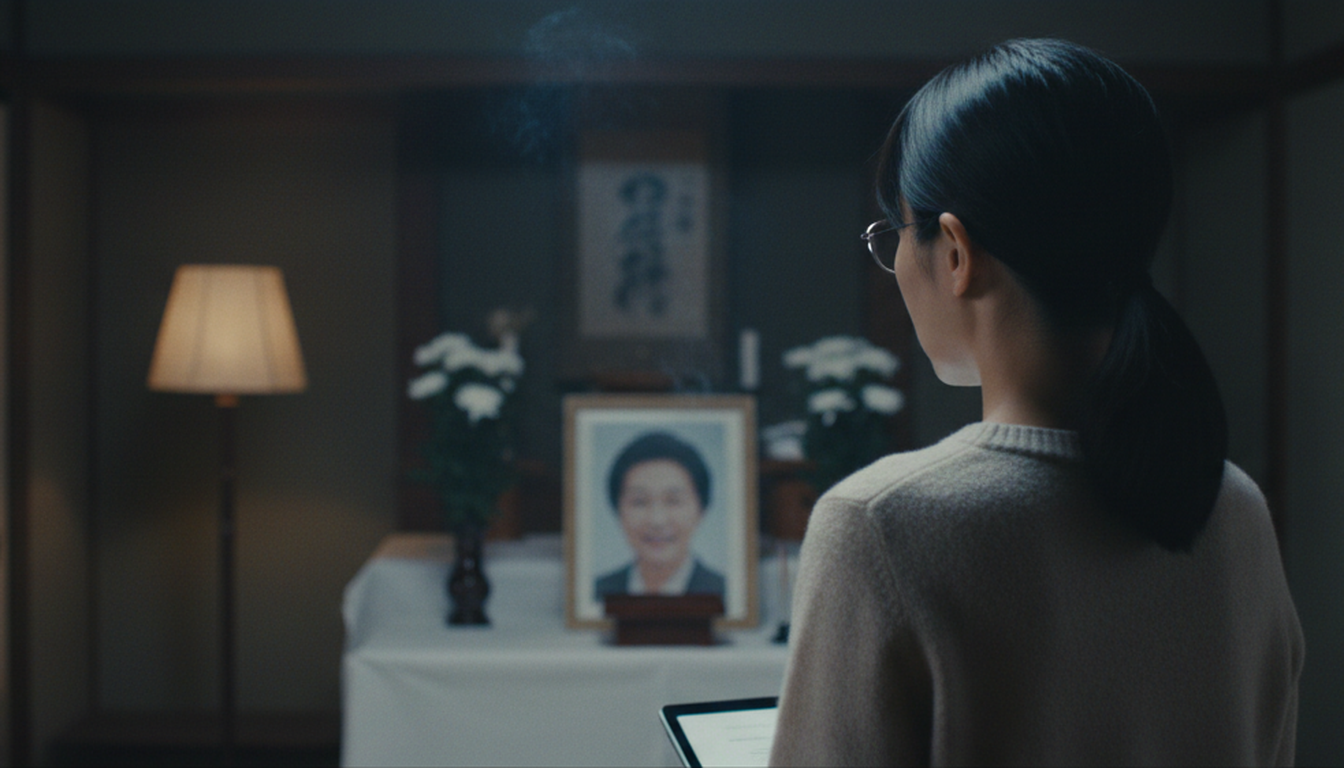
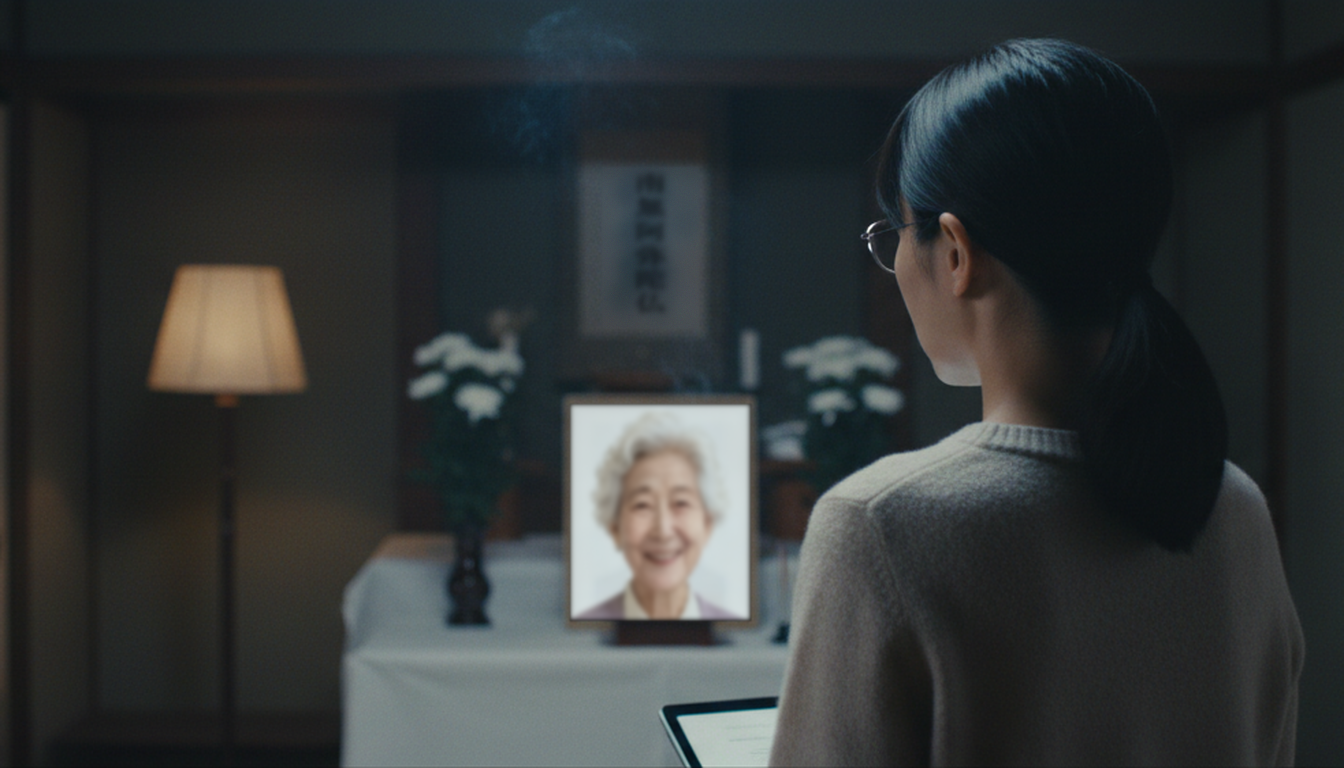
aihaha-ja 2초 전수 검수: S08k 영정 어머니 사진·족자 南無阿弥陀仏, S13f 액자, S10c TV 끔, CCTV 글자 순서
Claude-Session: https://claude.ai/code/session_012dfS4ETyT6kRCQca3NPWtx

Changed region(s): [[0.4062, 0.5, 0.5625, 0.8125], [0.4688, 0.25, 0.5, 0.2812]]

diff --git a/scripts/finalize_aihaha.py b/scripts/finalize_aihaha.py
@@ -51,9 +51,10 @@ VIDSCREEN = {  # 키프레임(1344x768) 화면 네 꼭짓점(TL·TR·BR·BL) —
 VID_OFFSET = {"H0b": 0.0, "S04l": 1.2, "S09e": 2.0}  # 같은 영상의 다른 구간(L02·L11·L26 — 같은 음성 파일 재사용, 제21장 9)
 LAPTOP = ("S06g", [(503.75, 461.7), (720.8, 450.0), (739.2, 588.3), (523.75, 610.8)],
           [(725.8, 478.3), (713.3, 515.8), (692.5, 557.5), (669.6, 595.0), (760, 640), (760, 440)])  # 화면 사각형, 앞 인물(머리·어깨) 보호 다각형
+TVOFF = {"S10c": [(236, 329), (459, 329), (459, 468), (236, 468)]}  # 배경 TV가 흰 무지로 빛남 → 꺼진 화면(어두운 유리 + 옅은 반사), 매 프레임
 PAGEBLUR = {"S07h": (100, 330, 760, 600), "S10h": (880, 450, 1344, 768)}  # 키프레임 좌표, 종이색 픽셀만 흐림
 CCTV = {"S03a", "S06k"}
-POST_CCTV = {"S06k"}  # 펀치 인 뒤에 CCTV 화면 글자를 얹는다(먼저 얹으면 확대로 글자가 잘림)
+POST_CCTV = {"S06k", "S03a"}  # 펀치 인 뒤에 CCTV 화면 글자를 얹는다(먼저 얹으면 확대로 글자가 잘림)
 FAKE = {"H0a", "S05a"}
 S01B_HOLD = 5.0  # S01b 5초 이후 약통이 납작해짐 → 5초 프레임 정지 + 슬로 푸시
 CORNERS = {"S01a": "corner_S01a", "S02a": "corner_S02a", "S04a": "corner_S04a", "S07a": "corner_S07a", "S08a": "corner_S08a", "S12a": "corner_S12a"}
@@ -69,6 +70,7 @@ CREEP = {  # 긴장 정적 구간 카메라(고니감독님 2026-11-05 「카메
     "S03a": (1.10, 0.62, 0.52, False), "S08l": (1.08, 0.5, 0.5, False), "S08n": (1.05, 0.5, 0.42, False),
     "S09p": (1.06, 0.5, 0.42, True), "S10j": (1.08, 0.5, 0.45, True),
 }
+KF_REDO = {"S08k", "S13f"}  # 마무리 단계에서 키프레임을 고친 정지 컷(족자 「南無阿弥陀仏」) — 교체 클립과 같은 푸시인으로 다시 만듦
 STATIC = {"S05c", "S08i", "S08o"}  # 움직이는 컷 3연속 끊기 — 정지 교체 클립(푸시인) 대신 완전 고정(돌리줌 직후 정지 = 충격의 여운)
 FX.update({"S10a": "punch"}); PUNCH_AT["S10a"] = 0.1  # 탁자 내리침 순간 — 펀치 인 3회째(작품당 6회 이하)
 MULTICAM = {"S01i", "S06f", "S06j", "S07c", "S07g", "S09q", "S11d"}  # 같은 크기·각도 연속 쌍의 두 번째 컷 → 1.10배 화각 교체(제19장 17③, 제8장 2)
@@ -388,6 +390,9 @@ def source_frames(sid):
     if sid in STATIC:
         n = int(round(BY[sid]["assembled_s"] * FPS)) + 2
         return [cover(kf_img(sid))] * n
+    if sid in KF_REDO:
+        n = int(round(BY[sid]["assembled_s"] * FPS)) + 2; base = cover(kf_img(sid))
+        return [zoom_frame(base, 1 + 0.05 * i / n) for i in range(n)]
     if sid in VIDSCREEN:
         n = int(round(BY[sid]["assembled_s"] * FPS)) + 2
         base = [cover(f) for f in vid_screen(sid, n)]
@@ -417,6 +422,10 @@ def source_frames(sid):
         fr = laptop(fr)
     if sid in PAGEBLUR:
         fr = page_blur(sid, fr)
+    if sid in TVOFF:
+        sc, ox, oy = kf_map(sid, fr[0]); q = mapq(TVOFF[sid], sc, ox, oy)
+        dark = np.full((90, 160, 3), 14, np.float32)
+        fr = [lcd_put(f, dark, q, keep=140, refl=0.12, blur=1.2) for f in fr]
     fr = [cover(f) for f in fr]
     if sid in FAKE:
         fr = fake_video(fr)
@@ -474,7 +483,7 @@ def moving_check():
 
 
 def targets():
-    t = set(FX) | set(REUSE) | set(VIDSCREEN) | {LAPTOP[0], EYES[0]} | MULTICAM | POLICE | set(CREEP) | STATIC | set(SPLIT) | set(OFFSET) | CLIP_FIXED | set(PAGEBLUR) | CCTV | FAKE | {"S01b"} | set(jump_cuts()) | set(long_cuts())
+    t = set(FX) | set(REUSE) | set(VIDSCREEN) | {LAPTOP[0], EYES[0]} | MULTICAM | POLICE | set(CREEP) | STATIC | KF_REDO | set(TVOFF) | set(SPLIT) | set(OFFSET) | CLIP_FIXED | set(PAGEBLUR) | CCTV | FAKE | {"S01b"} | set(jump_cuts()) | set(long_cuts())
     t -= {"S11a", "S13h", "S02a"}
     return sorted(t, key=lambda s: IDX[s])
 

diff --git a/scripts/aihaha_composite.py b/scripts/aihaha_composite.py
@@ -244,6 +244,15 @@ def intercom_clean(b):
     return out * (1 - edge) + cv2.GaussianBlur(out, (0, 0), 2) * edge
 
 
+def scroll_nembutsu():
+    """S08k 불단 족자 — 가짜 붓글씨 대신 실제 「南無阿弥陀仏」(세로, 먹색). 초점 밖이라 크게 흐림."""
+    W, H = 300, 900; im = Image.new("RGB", (W, H), (255, 255, 255)); d = ImageDraw.Draw(im)
+    f = ImageFont.truetype(os.path.join(ROOT, "scripts", "fonts", "ZenOldMincho-Bold.ttf"), 128)
+    for i, ch in enumerate("南無阿弥陀仏"):
+        d.text((W // 2, 80 + i * 140), ch, font=f, fill=(20, 20, 24), anchor="mm")
+    return im
+
+
 # ---------- 합성 방식 ----------
 def warp(art, quad, W, H, border=(255, 255, 255)):
     a = np.asarray(art.convert("RGB")).astype(float); h, w, _ = a.shape
@@ -380,6 +389,10 @@ JOBS = {
                                         report3("本人開示結果のお知らせ", "個人信用情報センター"), [(497, 181), (814, 181), (841, 553), (441, 553)], tol=60, strength=0.92, blur=0.9),
                                   report3("登録情報開示報告書", "信用情報機構　開示担当"), [(864, 177), (1187, 177), (1289, 551), (908, 553)], tol=60, strength=0.92, blur=0.9),
     "S09a": lambda b: paper(b, gfx("S09a_form"), [(504, 591), (732, 581), (793, 672), (531, 699)], strength=0.9, blur=1.0, clean=9),
+    "S13f": lambda b: put_photo(b, portrait(), [(452, 516), (528, 516), (528, 596), (452, 596)], blur=1.0),  # 탁자 위 작은 액자 = 진짜 어머니 사진(무지 흰 사각형 → 「AIは顔も声も真似できた」 위 진짜 얼굴)
+    "S08k": lambda b: put_photo(paper(blank(b, [(600, 165), (700, 165), (700, 330), (600, 330)], inset=2, k=21, sigma=6), scroll_nembutsu(),
+                            [(612, 168), (688, 168), (688, 322), (612, 322)], tol=90, strength=0.75, blur=3.2),
+                                portrait(), [(570, 404), (750, 404), (750, 620), (570, 620)], blur=2.6),  # 영정 속 엉뚱한 남자 → 어머니(제21장 21① 재발)
     "S11a": lambda b: screen_full(intercom_clean(b), intercom(), [(561, 249), (688, 249), (688, 326), (561, 326)], blur=0.9, bloom=0.18),
 }
 

diff --git a/docs/제작규격-보강-aihaha실증.md b/docs/제작규격-보강-aihaha실증.md
@@ -117,3 +117,10 @@
 - 재생성 결과: S02f 합격(웃음 0, 두 손 모음). S11d 재생성은 고개 90° 회전 + 턱 괴기 → 기존 burn판 앞 1.5초(새 인물 등장 전) + 「大野頼子さん」에서 叔母의 떨리는 손으로 L컷(`SPLIT`, `OFFSET`으로 같은 움직임 반복 금지).
 - **긴장 정적 구간 보강(고니감독님 2026-11-05 「긴장감 있는 장면은 BGM 끄고 효과음으로」)**: 기존 6곳에 4곳 추가 — 1:44 CCTV 실인 절도→빈 서랍, 3:23 가짜 영상 재시청→「足場が、ない」, 4:43 돌봄 카메라 일시정지→叔母의 손, 8:21 탁자 내리침→정적. 이야기의 결정적 순간만(정적이 많으면 대비가 무뎌진다). 생성기 `SILENCE` → `bgm_silence` → burn remix(무과금, 오디오만 재조합), 효과음 +3~4 dB·룸톤 유지.
 - **긴장 카메라(고니감독님 2026-11-05 「카메라 각도와 줌으로도 긴장감」)**: 정적 구간에서 소리와 함께 카메라가 조여 오게 — 크리프 줌(1.00→1.05~1.10, 가속 곡선 t^1.3: S03a CCTV·S08l 고독 와이드·S08n 결심 CU), 악역 패닉은 크리프 + 미세 핸드헬드(S09p·S10j), 충격은 펀치 인(S10a 탁자, 작품 3회째), 주인공 반응은 완전 정지(S10b — 흔들리는 악역과 대비). 움직이는 카메라 컷 29%·3연속 0을 도구가 검사(`moving_check`) — 3연속이 나오면 한 컷을 완전 고정으로(`STATIC`: 돌리줌 직후 정지 = 충격의 여운).
+
+## PHASE 6 2초 간격 전수 검수 1차 (2026-11-05, 마무리 1차본 321프레임)
+- **영정 속 엉뚱한 남자 사진 재발(S08k 6:28)** — S02a는 PHASE 4에서 고쳤지만 같은 영정이 나오는 다른 컷은 놓쳤다 → 영정·액자·사진이 보이는 컷을 장면 정합표 「영정 S02·S10·S11·S13」 기준으로 전부 찾아 합성(`aihaha_composite.py` S08k·S13f). 규칙: 소품 상태(영정 = 어머니 사진)는 첫 등장 컷만이 아니라 **등장하는 모든 컷**을 대조한다.
+- 불단 족자의 흐린 붓글씨 획 → 실제 「南無阿弥陀仏」(명조, 초점 밖 흐림 3.2).
+- 흰 무지로 빛나는 배경 화면: S10c TV(i2v → 매 프레임 꺼진 화면 `TVOFF`), S13f 탁자 위 작은 액자(→ 진짜 어머니 사진 — 「AIは、母の顔も声も、真似できた」 내레이션 위에 진짜 얼굴).
+- CCTV 화면 글자는 카메라 확대 뒤에 얹는다(S03a·S06k — 확대로 「CAM 02」가 잘림).
+- S05e 창의 인물 = 由紀子 자신의 밤 유리 반사(같은 안경·포니테일, 좌우 반전) → 유지.
